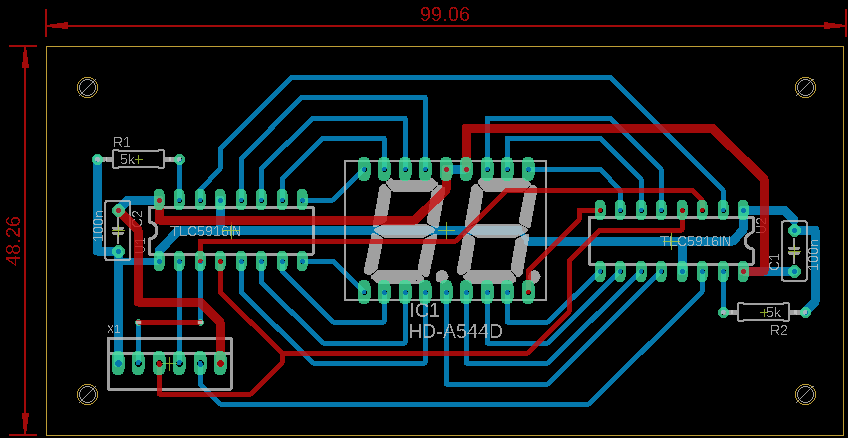
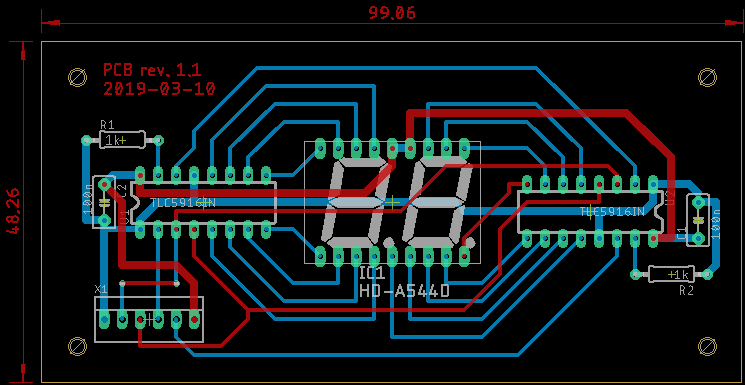
Fixed R1, R2 values, added revision number to PCB

diff --git a/README.md b/README.md
@@ -6,6 +6,8 @@ LED display.
 
 ![PCB with TLC5916 in action](https://github.com/hpaluch/tlc5916-two-digit-display/blob/master/assets/tcl5916-pcb.jpg?raw=true) 
 
+Board revision 1.0 (initial) is shown on picture.
+
 
 Project status:
 
@@ -15,10 +17,8 @@ subproject [Connecting TLC5916 to PC using LC 341A USB adapter][Connecting TLC59
 
 # Design files
 
-> Early design comments (prototype on bread-board):
->
-> Use lower value for `R1` and `R2` - `1K` seems to be fine.
-> I guessed the `5K` values because of complex data sheet. However finally:
+Design files are in revision 1.1, 2019-03-10. New values
+of R1 and R2 were computed using this setup:
 
 The relation between R<sub>ext</sub> and I<sub>led</sub> is following
 (default configuration after power-up):
@@ -83,6 +83,11 @@ around 700 CZK (roughly 32 USD) including:
 * solder mask
 * top silk screen
 
+NOTE: Remember to follow instructions in 
+[eagle-dokumentace.pdf][eagle-dokumentace.pdf]
+from [Technicke informace][Technicke informace]
+(provided in Czech only)
+
 
 # Bill of Material
 
@@ -110,6 +115,8 @@ Design shortcomings:
   to allow custom power supply (for example `+12V`) different
   from main circuit `+5V` power supply.
 
+[Technicke informace]: https://www.gatema.cz/plosne-spoje/technicke-informace/default/7?do=reloadInfo
+[eagle-dokumentace.pdf]: http://www.gatema.cz/file-link/eagle-dokumentace.pdf
 [gatema.cz]: https://extranet.gatema.cz/dps/konfiguratorpool.aspx
 [DS1021-1x20SF1-10]: https://www.gme.cz/oboustranny-kolik-s1g20-2-54mm-v-13-80mm
 [TLC5916 - tme.eu]: https://www.tme.eu/en/details/tlc5916in/led-drivers/texas-instruments/
